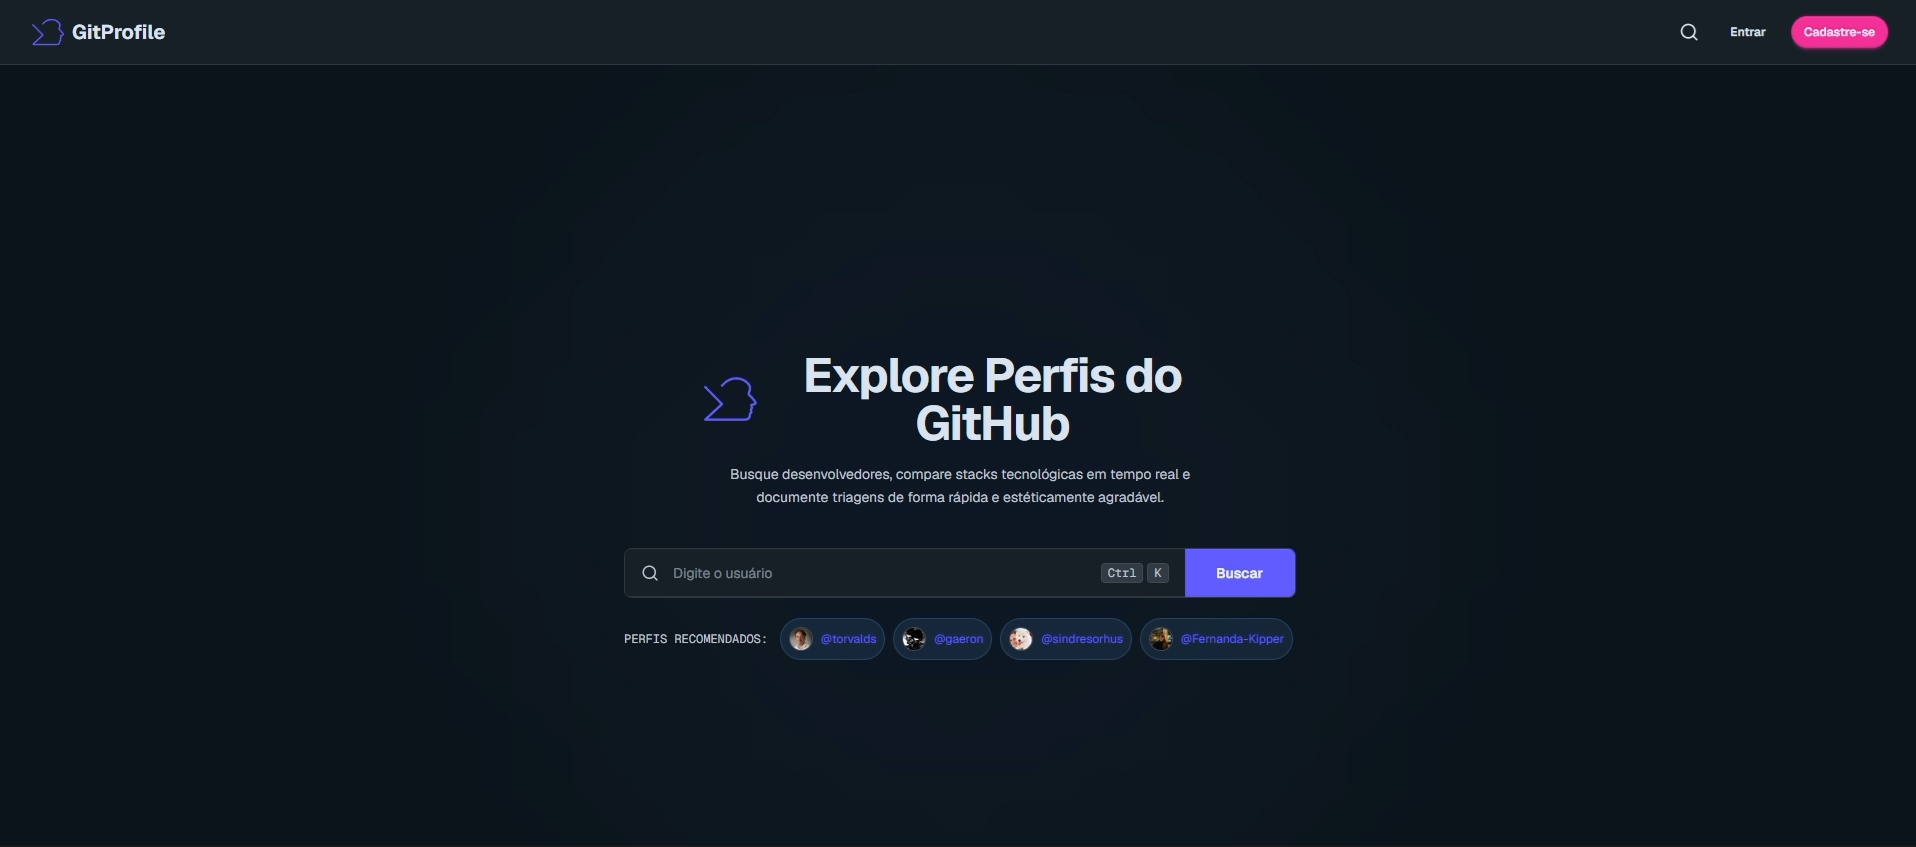
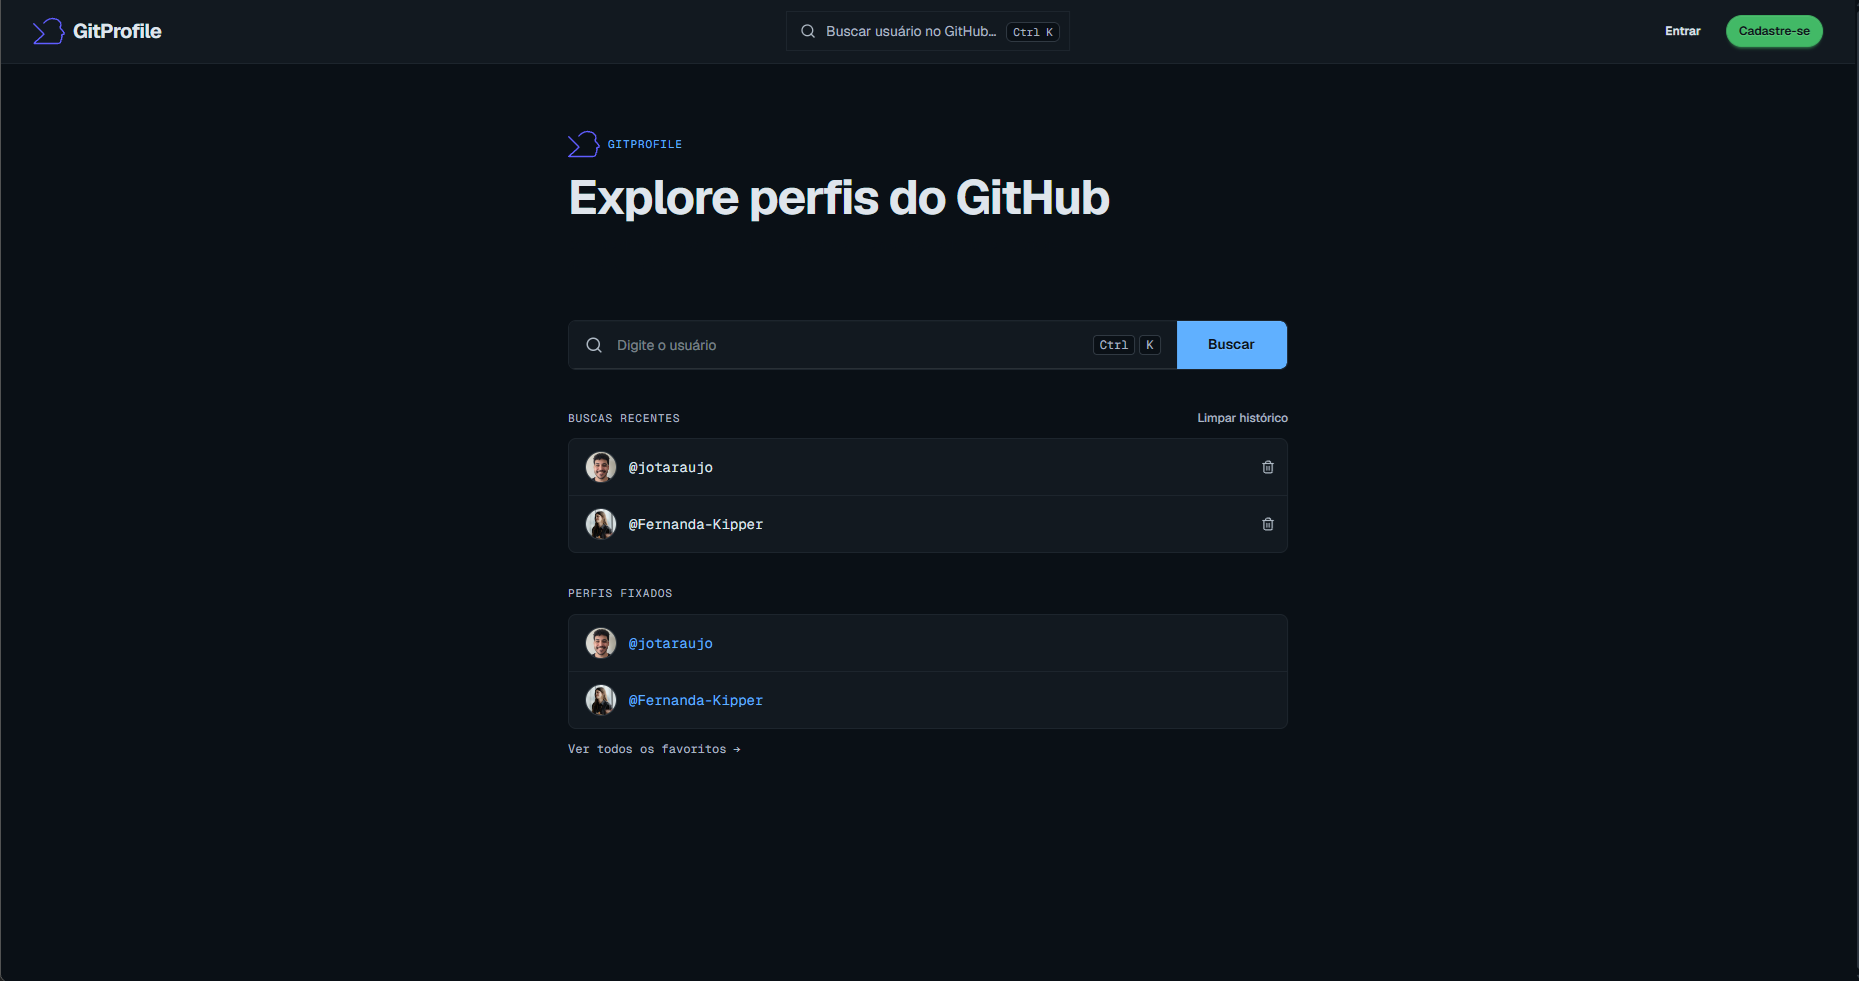
chore: config vitest

diff --git a/vitest.config.ts b/vitest.config.ts
@@ -1,0 +1,90 @@
+/// <reference types="vitest" />
+// Garente que o TypeScript reconheça os tipos do Vitest
+
+import { defineConfig } from "vitest/config";
+import react from "@vitejs/plugin-react";
+import path from "path";
+
+// Carrega variáveis de ambiente antes de tudo
+// Estou usando a linha de comando para isso (mas deixei aqui caso queira)
+// import dotenv from 'dotenv';
+// dotenv.config({ path: '.env.test' });
+
+export default defineConfig({
+  test: {
+    // Define o ambiente de testes como jsdom
+    // (simula o DOM no Node.js, ideal para testes de componentes React)
+    environment: "jsdom",
+
+    // Permite usar funções como 'describe', 'it' e 'expect'
+    // sem importar manualmente
+    globals: true,
+
+    // Rodar testes em paralelo (comportamento padrão do Vitest)
+    // Mantido explícito caso algum teste com acesso ao SQLite
+    // gere conflito em constraints únicas (ex: UNIQUE constraint)
+    fileParallelism: false,
+
+    // Arquivo executado antes de cada **arquivo de teste**
+    // (ideal para configuração global como jest-dom e cleanup)
+    setupFiles: ["vitest.setup.ts"],
+
+    // Executado uma única vez antes (setup) e depois (tearDown) da suíte
+    // inteira de testes
+    globalSetup: ["vitest.global.setup.ts"],
+
+    // Define quais arquivos serão considerados testes (unit e integration)
+    // Testes de integração: .test.ts(x) | Testes Unitários: .spec.ts(x)
+    include: ["src/**/*.{spec,test}.{ts,tsx}"],
+
+    // Tempo máximo para cada teste (em milissegundos)
+    // antes de ser considerado travado ou falho
+    testTimeout: 10000,
+
+    // Configuração de cobertura de testes
+    coverage: {
+      // Pasta onde os relatórios de cobertura serão gerados
+      reportsDirectory: "./coverage",
+
+      // Usa o mecanismo de coverage nativo do Node.js
+      provider: "v8",
+
+      // Quais arquivos serão analisados para cobertura de código
+      include: ["src/**/*.{ts,tsx}"],
+
+      // Arquivos e pastas que serão ignorados no relatório de cobertura
+      exclude: [
+        // Ignora arquivos de teste
+        "**/*.test.{ts,tsx}",
+        "**/*.spec.{ts,tsx}",
+
+        // Ignora arquivos que TEM APENAS types ou interfaces
+        "**/types/**",
+        "**/*.d.ts",
+        "**/*.type.{ts,tsx}",
+        "**/*.types.{ts,tsx}",
+        "**/*.contract.{ts,tsx}",
+        "**/*.protocol.{ts,tsx}",
+        "**/*.interface.{ts,tsx}",
+
+        // Ignora arquivos e pastas de mocks e utilitários de testes
+        "**/*.mock.{ts,tsx}",
+        "**/*.mocks.{ts,tsx}",
+        "**/mocks/**",
+        "**/__mocks__/**",
+        "**/__tests__/**",
+        "**/__test-utils__/**",
+        "**/*.test-util.ts",
+      ],
+    },
+  },
+  // Ativa o plugin do React (JSX transform, HMR, etc)
+  plugins: [react()],
+  resolve: {
+    alias: {
+      // Permite usar @/ como atalho para a pasta src
+      // Exemplo: import Button from '@/components/Button'
+      "@": path.resolve(__dirname, "src"),
+    },
+  },
+});

diff --git a/vitest.setup.ts b/vitest.setup.ts
@@ -1,0 +1,39 @@
+// Esse arquivo é executado antes de cada ARQUIVO de teste.
+// Ideal para configurar jest-dom, mocks globais, ou resetar estados entre arquivos.
+
+/// <reference types="vitest/globals" />
+// Garente que o TypeScript reconheça os tipos do Vitest
+
+// Importa funções do Vitest para usar depois dos testes
+// `afterEach` = executa algo depois de cada teste
+// `expect` = função principal para fazer asserções (testar resultados)
+import { afterEach, expect } from "vitest";
+
+// Importa a função `cleanup` da Testing Library
+// Ela "limpa" o DOM após cada teste pra garantir que um teste não afete outro
+import { cleanup } from "@testing-library/react";
+
+// Importa os matchers extras do jest-dom, adaptados pro Vitest
+// Exemplo: `.toBeInTheDocument()`, `.toHaveAttribute()`, etc.
+// Sem isso, o `expect(...).toBeInTheDocument()` daria erro
+import "@testing-library/jest-dom/vitest";
+
+// Importa todos os matchers do jest-dom adaptados para Vitest
+// Isso evita warnings relacionados ao act(...) em atualizações do React
+// e garante que matchers como `.toBeInTheDocument()` funcionem corretamente
+import * as matchers from "@testing-library/jest-dom/matchers";
+
+// Estende o expect global com os matchers do jest-dom
+// Sem isso, pode aparecer warning do tipo "You might have forgotten to wrap an update in act(...)"
+expect.extend(matchers);
+
+// Essa função roda automaticamente depois de **cada** teste
+// Serve pra limpar tudo e evitar que um teste interfira no outro
+afterEach(async () => {
+  // Limpa o DOM entre os testes (remove o que foi renderizado)
+  cleanup();
+
+  // Reseta todos os spies e mocks do Vitest (`vi.fn`, `vi.spyOn`, etc.)
+  // Garante que os testes sejam independentes e não tenham "lixo" de execuções anteriores
+  vi.resetAllMocks();
+});

diff --git a/vitest.global.setup.ts b/vitest.global.setup.ts
@@ -1,0 +1,12 @@
+// Executado uma única vez antes (setup) e depois (tearDown) da suíte
+// inteira de testes
+
+export async function setup() {
+  // Roda antes de todos os testes
+  // Isso é meio demais, mas às vezes o teste não roda por completo
+  // e deixa lixo, como bases de dados antigas ou dados na tabela
+}
+
+export async function teardown() {
+  // Roda depois de todos os testes
+}
